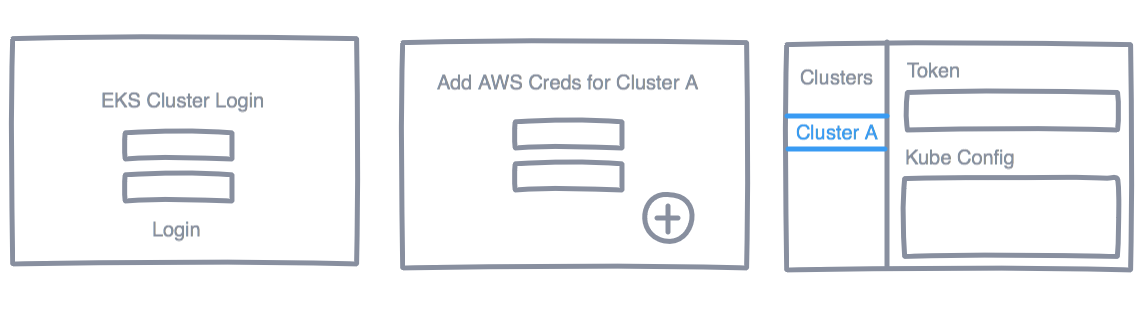
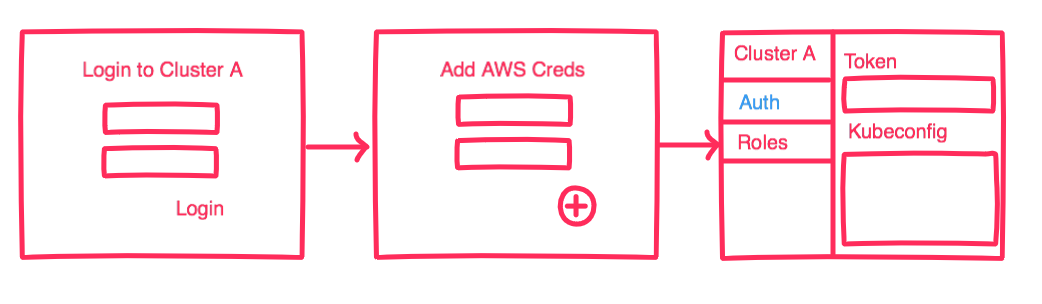
Fixed typos and updated wireframe.

Changed region(s): [[0.0, 0.0888, 1.0, 0.8882], [0.0921, 0.2961, 0.2457, 0.7697], [0.0614, 0.2072, 0.2457, 0.2664]]

diff --git a/docs/design/sso eks - design proposal.md b/docs/design/sso eks - design proposal.md
@@ -2,7 +2,7 @@
 
 This is a design proposal to enable SSO auth via an identity provider like Auth0, into a Kubernetes cluster in AWS EKS.
 
-AWS EKS uses IAM to provide authentication to your Kubernetes cluster with RBAC enabled for authorization. The RBAC mechanisms is native to Kubernetes and uses native primitives like `roles` and `role bindings` to configure authorization for a give user and or group.
+AWS EKS uses IAM to provide authentication to your Kubernetes cluster with RBAC enabled for authorization. The RBAC mechanisms is native to Kubernetes and uses native primitives like `roles` and `role bindings` to configure authorization for a given user and or group.
 
 
 
